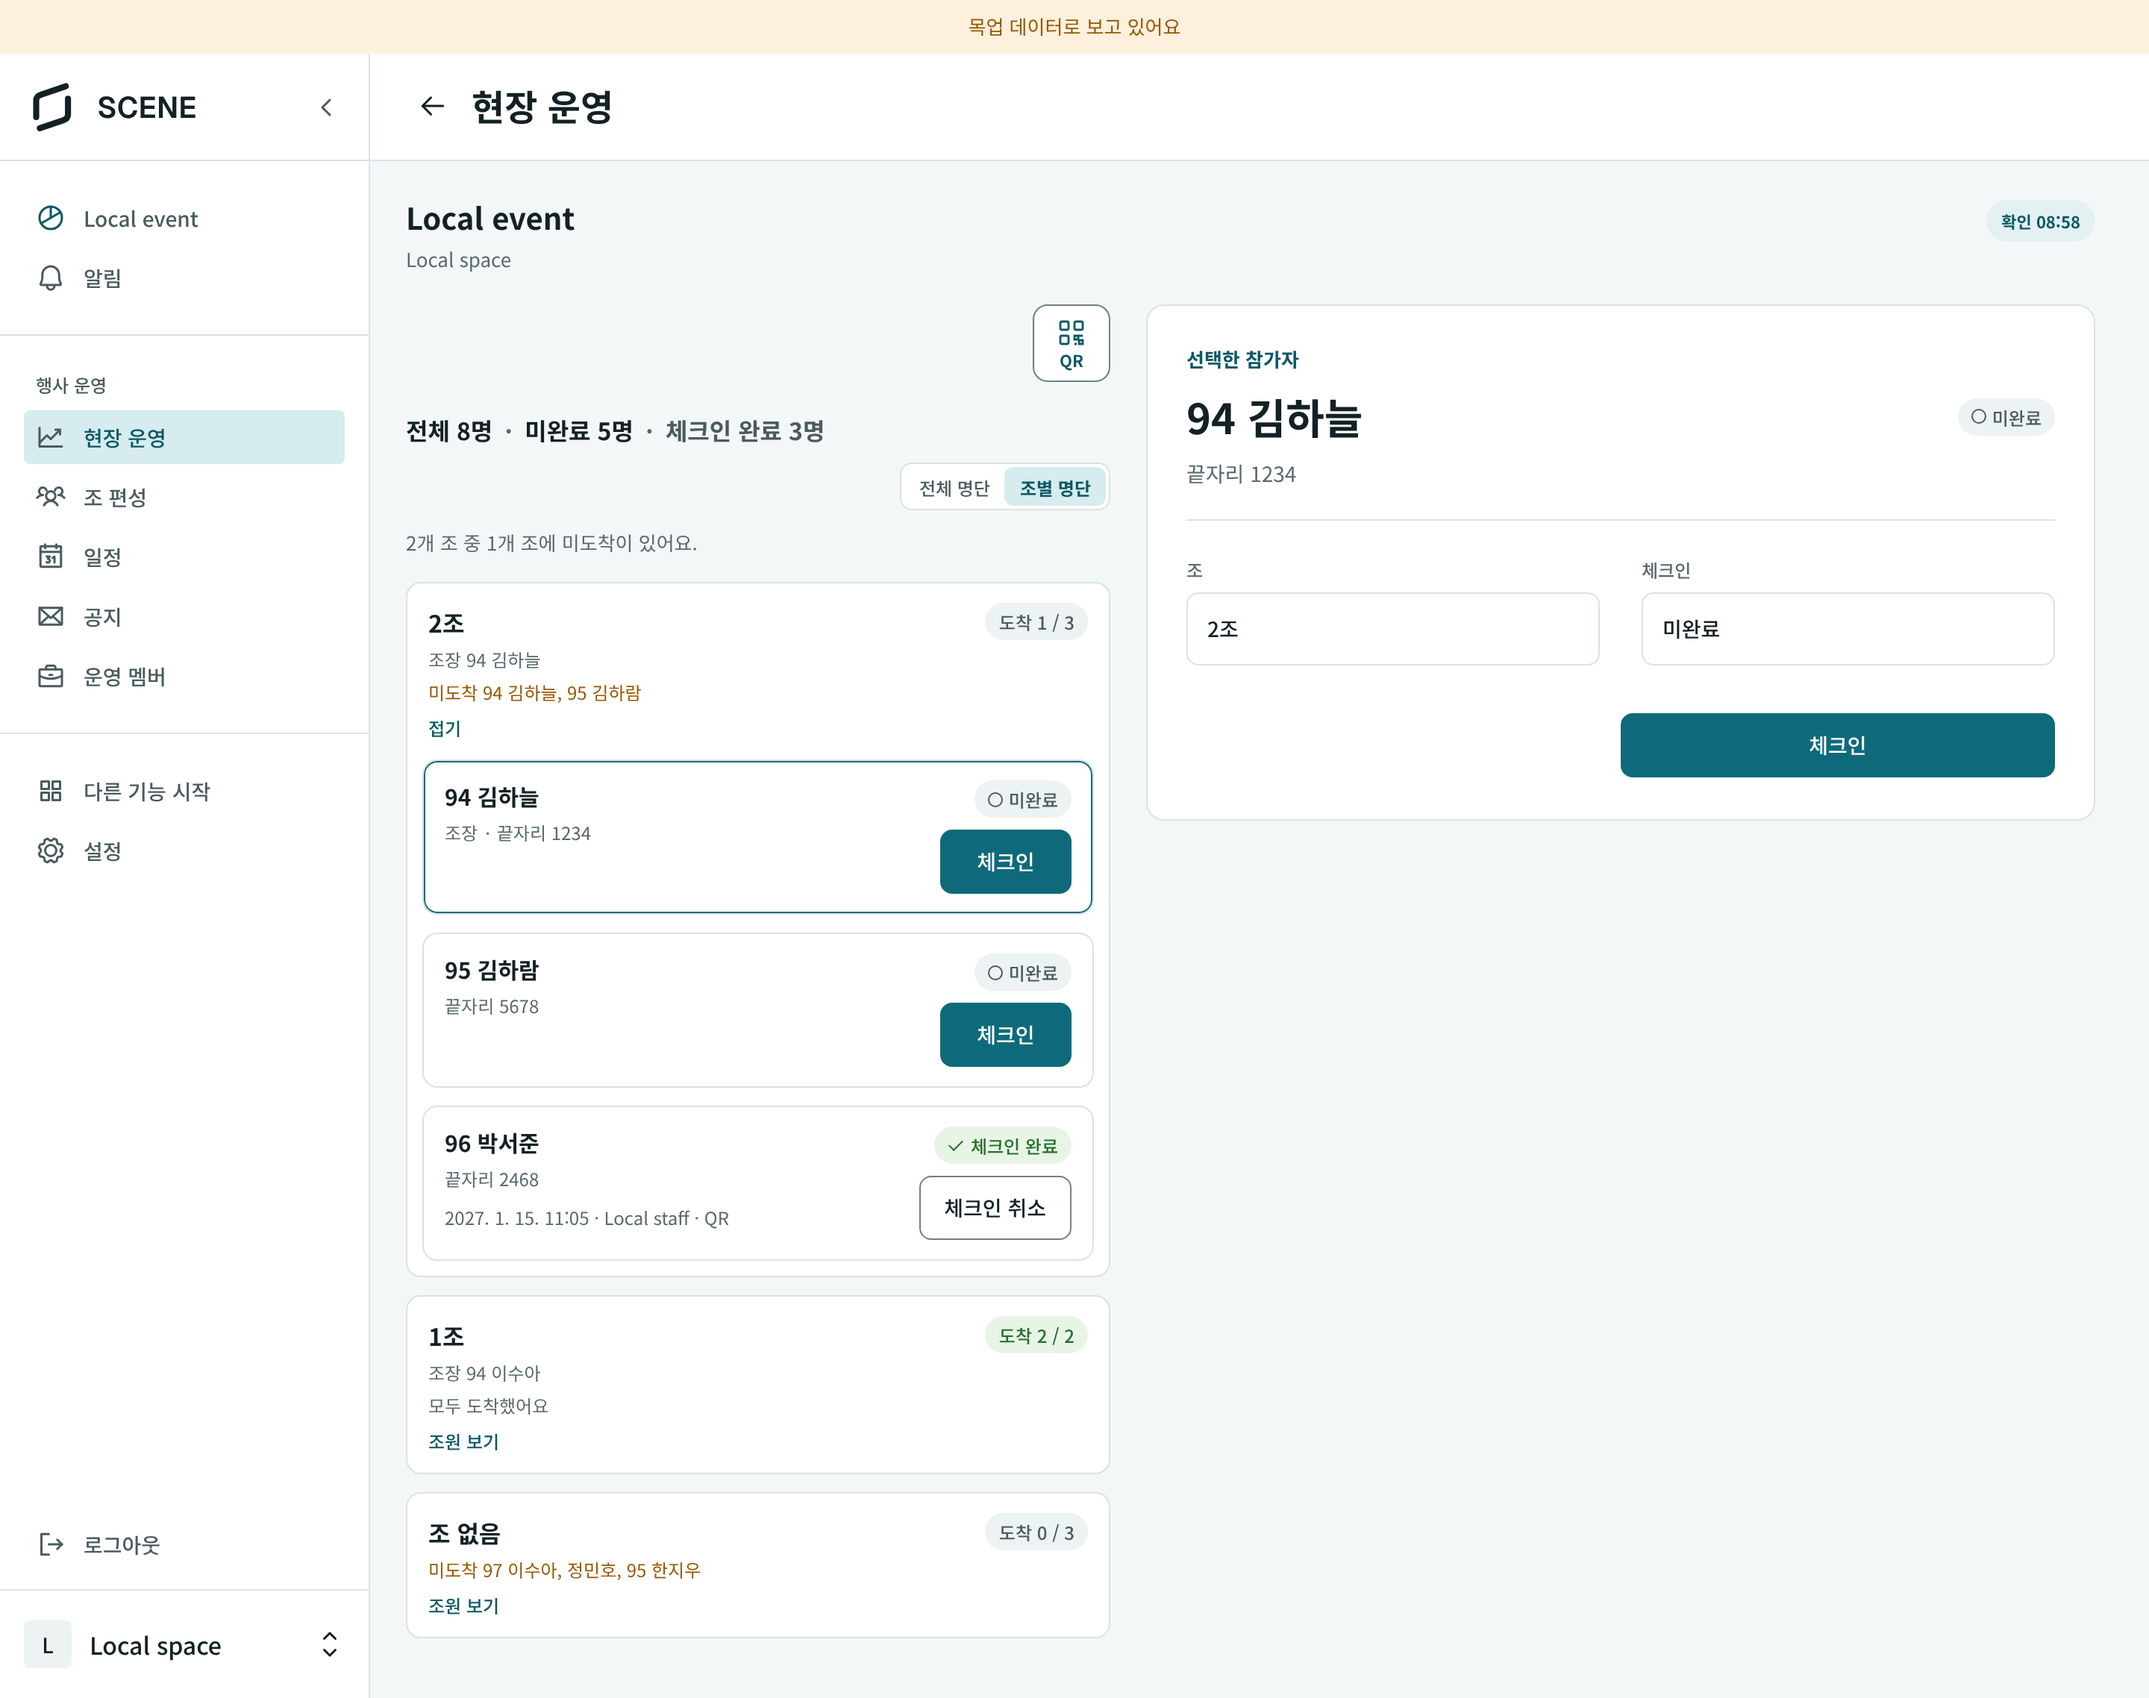
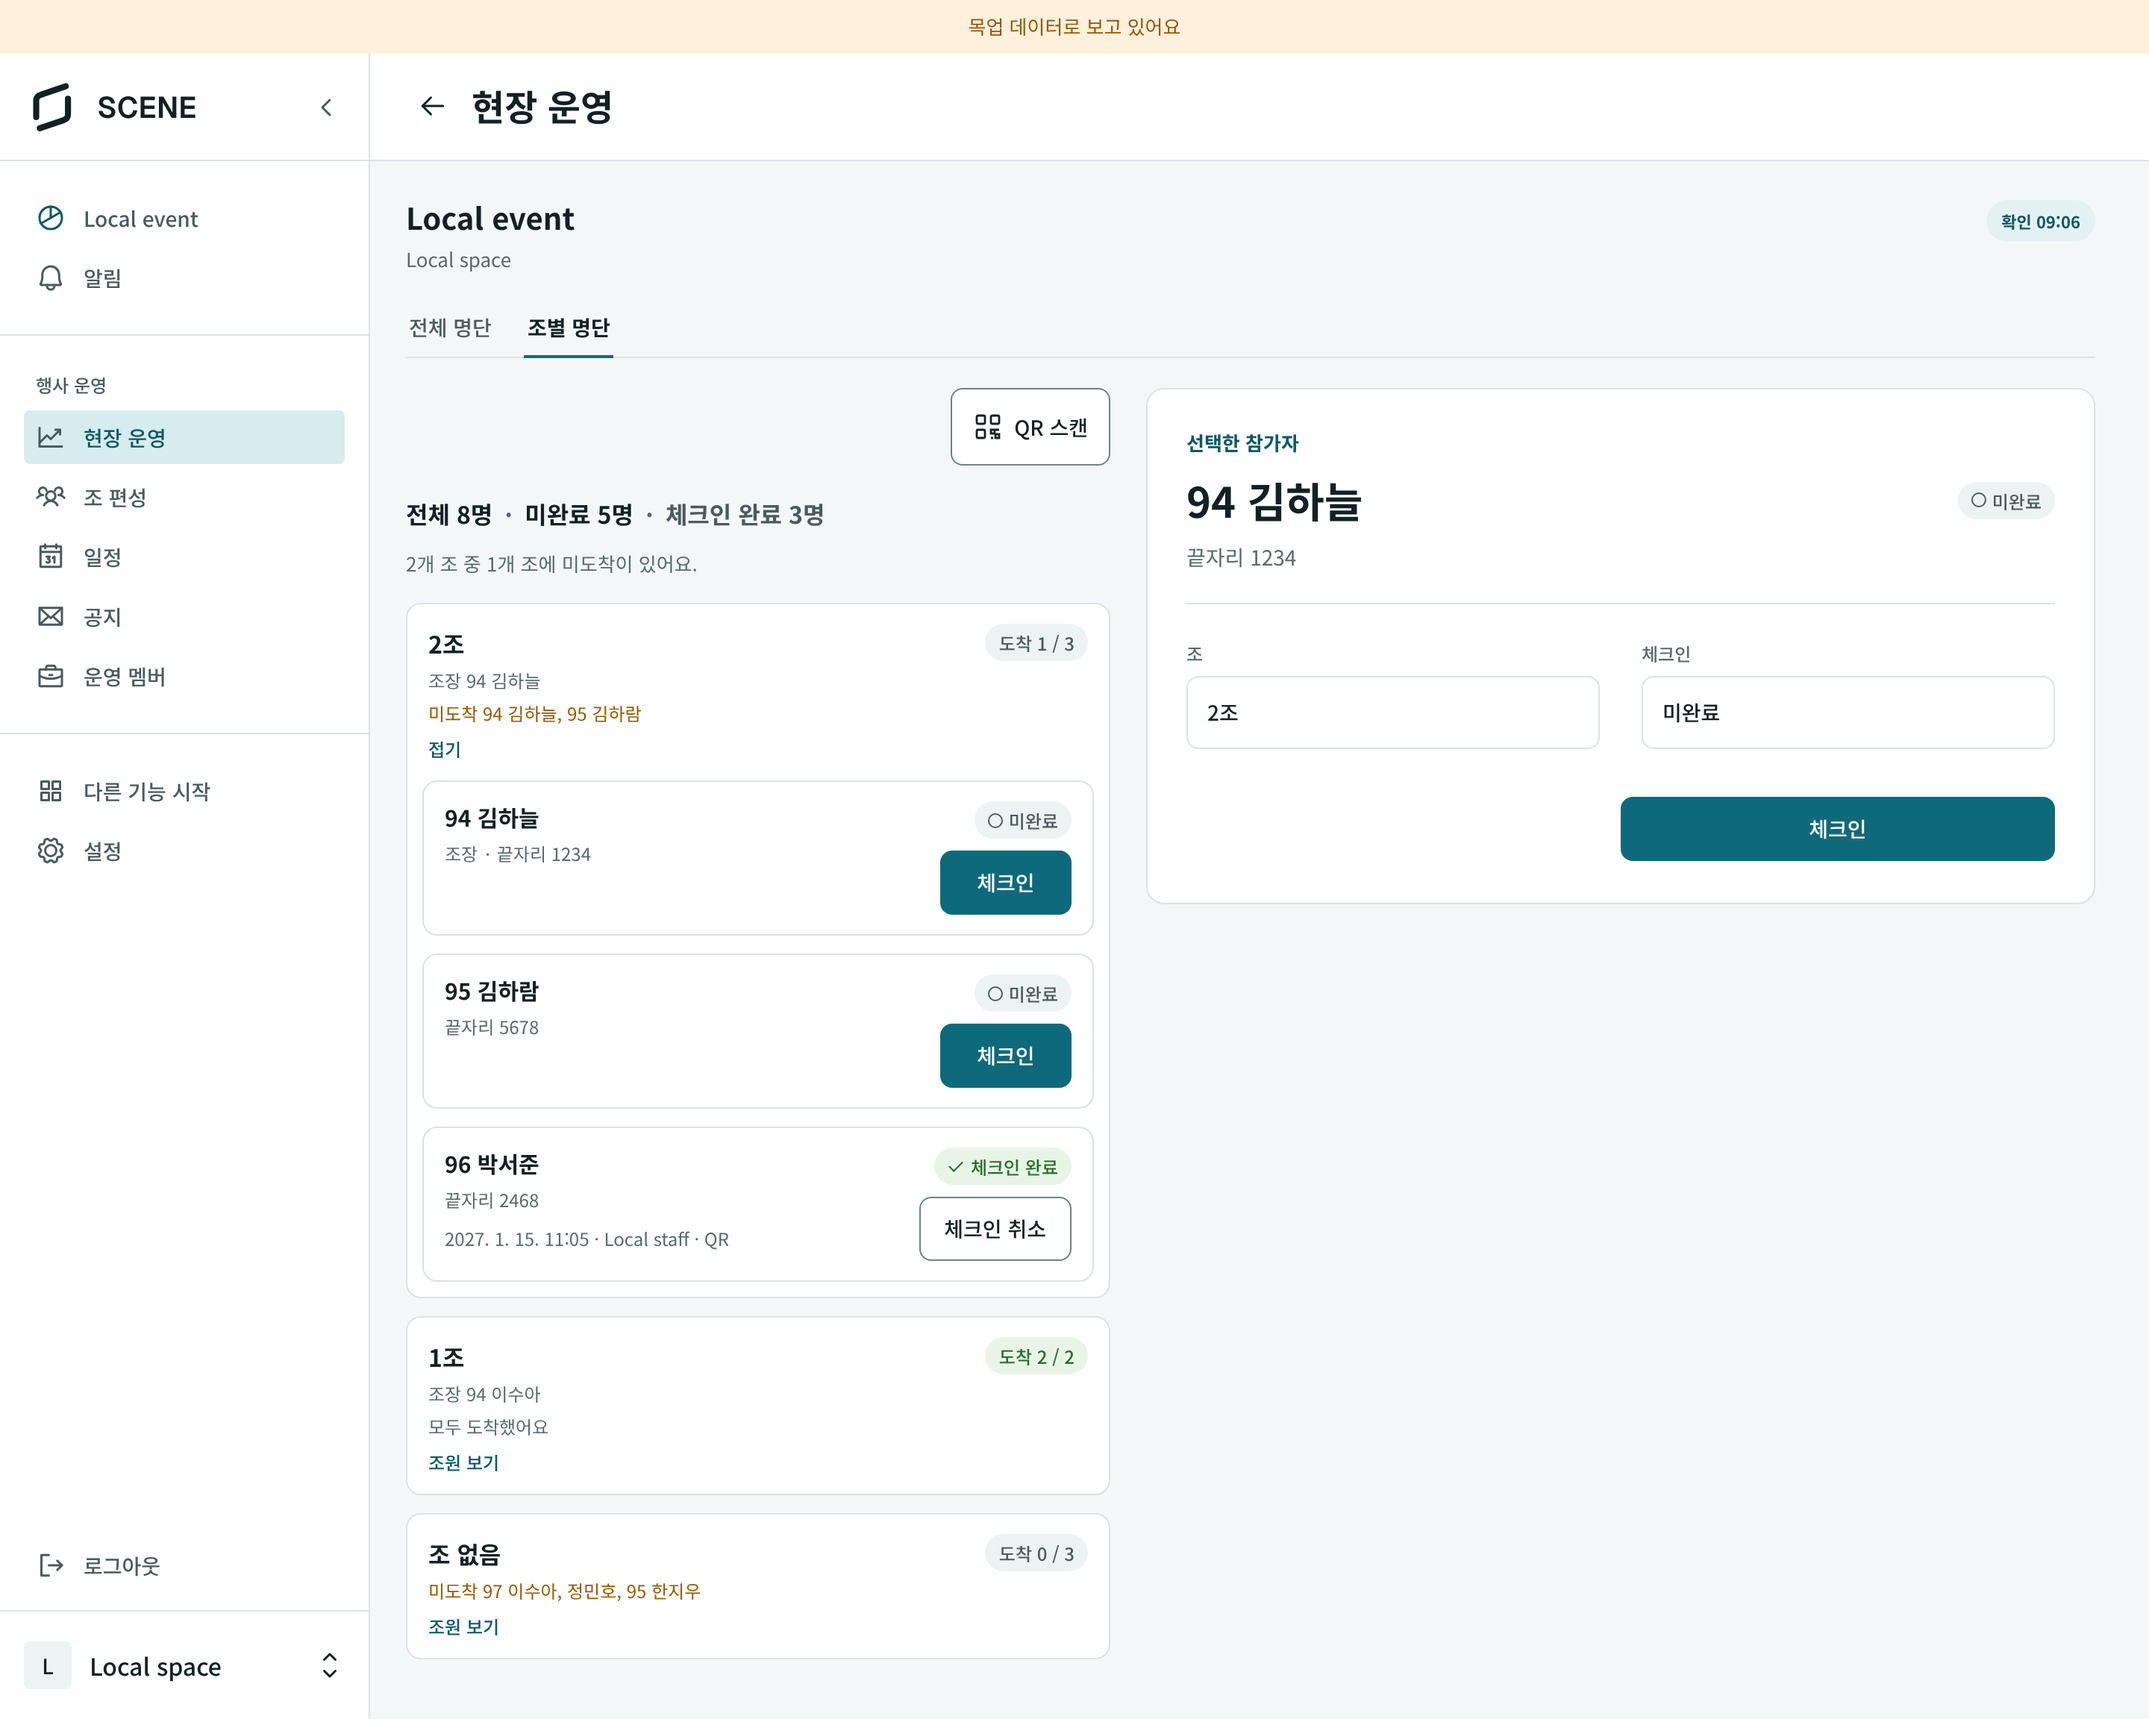
현장 운영 캡처를 다시 찍고 Venture 계열에서 따른 노드를 기록한다 (#468)
Claude-Session: https://claude.ai/code/session_019gxRjAtd5RkyvLLTgWaFpT

diff --git a/docs/test_results/468-field-figma/README.md b/docs/test_results/468-field-figma/README.md
@@ -25,13 +25,24 @@
 | TL01 620:19·620:21 필터 칩, 620:17 수 칩 | 전체/미완료/완료 칩 + "n명" 칩 |
 | Participant Item 616:3971(radius 10, 13/14, 이름 15 semibold, 메타 12/18, pill 칩 + 10px 빈 원) | `FieldRosterRow`. 체크인 완료는 체크 표시 + attendance-full 배지 색 |
 | OM01 622:42 Connection Status, OM10 622:241 | 오프라인·확인 안 된 요청 카드 |
+| Venture 계열(아래) | QR 버튼·전체/조별 탭·선택한 카드 |
 | TL01 620:7 2단(대기열 472px + 상세 패널 620:56) | 1024px 이상에서 `.event-field__layout--wide`. 상세 패널: "선택한 참가자", 이름(Display), 상태 칩, 읽기 전용 칸(48, radius 8), 동작 버튼. QR 스캐너는 이 패널 자리에 열린다 |
+
+## Venture 계열 추가 기준 (2026-11-25 사용자 지정)
+
+P13에 자리가 없는 요소는 아래 노드를 따랐다. 색과 글자는 SCENE 토큰으로 옮겼다. P13에 자리가 있는 요소(검색창 52/radius 10, 현황 한 줄, 필터 칩, 참가자 카드)는 P13 화면 설계를 그대로 두었다.
+
+| 요소 | 따른 노드 |
+|---|---|
+| QR 스캔 버튼 | SCENE DS v0.1 `ZFajaGIQ3VneNqkncKYXbJ` 33:28 **Filter Trigger**, 172:6 "04 참가자 명단"의 Data Toolbar(173:7736: 검색 + 아이콘·라벨 outline 컨트롤), Venture Contact (List) `RreFdEVMiwgHrV7teaCEOm` 20:3612의 "Filter" 버튼. outline, radius 8, 20px 아이콘 + 14px medium 라벨 "QR 스캔"을 쓰고, 열림 상태는 Filter Trigger Active(진한 테두리 + subtle 채움)로 표시한다 |
+| 전체/조별 전환 | Venture Contact (List) 20:3612의 보기 탭("List · Kanban · Table"): 글자 탭 + 선택 시 2px 밑줄. 행사명 아래, 대기열·상세 위에 둔다 |
+| 선택한 카드(데스크톱) | 33:28 **Operational List Item**의 Selected 상태(색 채움 + 진한 테두리). 정보 순서(identity → 상태 → 메타 → 동작)도 이 컴포넌트와 같다 |
+| 확인했지만 바꾸지 않음 | EOP Design System `2yztLB533ohOebuAKuwZr0`는 handoff 문서상 SCENE 토큰으로 다시 묶인 기반 라이브러리이며, 위 Venture 패턴과 겹쳐서 따로 적용하지 않았다. 172:7 "05 참가자 상세"(라벨-값 행)는 TL01 상세 패널과 겹쳐서 TL01을 따랐다 |
 
 ## Figma와 다르게 둔 것
 
 - 행마다 "체크인" 버튼을 둔다(40px). Figma 카드는 `›`로 상세에 들어가지만, 현장에서 한 번에 체크인하는 흐름을 지키려고 남겼다. 취소는 secondary로 낮췄다.
-- QR 스캔은 Figma에 자리가 없어서 검색창 옆 52×52 버튼(QR 아이콘 + "QR")으로 두었다. 조별 보기에서는 검색창이 없어 이 버튼만 오른쪽에 남는다.
-- 전체/조별 전환은 필터 칩 줄 끝에 작은 전환으로 두었다. 390px에서는 다음 줄로 내려간다.
+- QR 스캔과 전체/조별은 P13에 자리가 없어서 Venture 계열 패턴을 따랐다(위 표). 조별 보기에서는 검색창이 없어서 QR 버튼만 오른쪽에 남는다.
 - 쓰지 않은 Figma 요소: "오늘 일정" 바로가기(범위 밖), "현장 모드" 배지(셸 헤더 범위), "확인 보류" 칩·버튼(서버 API 없음), 참가 유형·신청 상태 칸(데이터 없음), "본인 확인 안내", "처리하면 다음 대기 참가자를 자동으로 골라요"(자동 선택 없음), "대기 참가자 더 보기"(기존 "더 보기" 유지).
 - 새로 넣은 문구: 상세 패널의 칸 이름 "조"·"체크인"·"기록", 오프라인 칩 "오프라인", 검색 placeholder는 제품 용어대로 "이름 또는 전화 끝 4자리"로 썼다.
 - 이름 15 semibold는 SCENE 텍스트 스타일에 없어서 값을 그대로 적었다.
